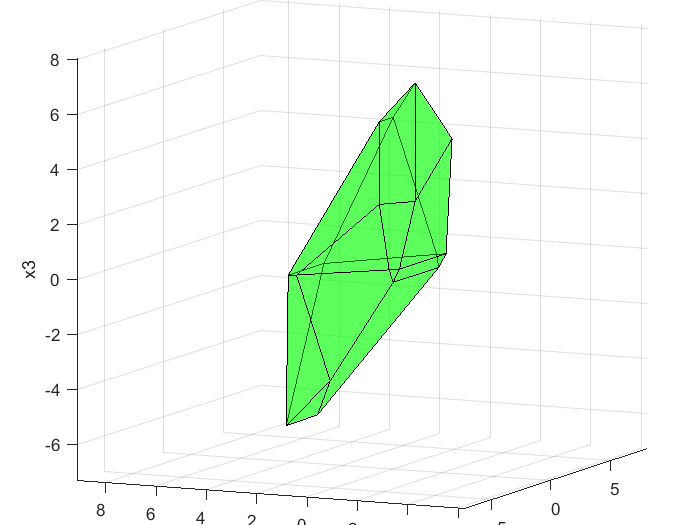
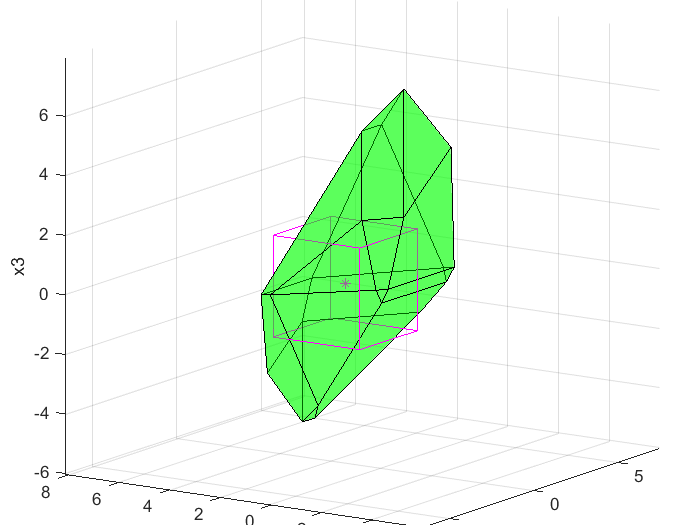
bounding boxes drawing

diff --git a/lab3/Untitled.m b/lab3/Untitled.m
@@ -1,8 +1,3 @@
-% infA = [98 99; 97 98; 96 97];
-% supA=[100 101; 99 100; 98 99];
-% infb=[1;2;3];
-% supb=[2;3;4];
-
 infA = [2 0; 4 6; 0 2];
 supA = [6 6; 8 8; 4 4];
 infb = [-1; 3; -2];
@@ -11,35 +6,43 @@ supb = [11; 17; 10];
 infA2 = [2 4 0; 0 6 2];
 supA2 = [6 8 4; 6 8 4];
 infb2 = [-7; -2];
-supb2 = [35; 22];
+supb2 = [25; 22];
 
 infA2_ = [4 0; 6 2];
 supA2_ = [8 4; 8 4];
 infb2_ = [-7; -2];
-supb2_ = [35; 22];
+supb2_ = [25; 22];
 
-% EqnTol2D(infA, supA, infb, supb)
-% infA = [98 99];
-% supA=[100 101];
-% infb=[1];
-% supb=[2];
+% EqnTolR2(infA, supA, infb, supb);
+% x = [0.338, 0.338, 0.748, 0.748, 0.338];
+% y = [0.281, 0.691, 0.691, 0.281, 0.281];
+% hold on
+% plot(0.54285, 0.48571, 'r.');
+% text(0.54285, 0.58571, 'argmaxTol');
+% plot(x, y, 'k');
+% hold off
 
-% % infA = [ 2 1 1; -1 15 3 ];
-% % infA2 = [ 2 -1 ;1 15; 1 3 ];
-% % supA = [ 4 5 4; 5 19 10];
-% % supA2 = [ 4 5; 5 19; 4 10];
-% % infb = [-2; 2];
-% % supb = [1; 7];
-% % 
-% % infb2 = [-4.5; -5.5; 0.5];
-% % supb2 = [-1.5; -0.5; 4.5];
-% % OrientPoints = 1;
-% % transparency = 1;
-% % 
+% figure()
+% 
 % EqnTolR3(infA2,supA2,infb2,supb2,0,1);
-% scatter3(-0.4, 0.3, 0, 'm*');
-figure()
-% plot3([-1.0637 0.0897], [-0.2567 -0.2567], [-0.5767 -0.5767], 'g');
+% x3 = [-1.707,1.707];
+% y3 = [-0.278,3.135];
+% z3 = [-1.708,1.708];
+% hold on
+% scatter3(1.02971857e-08,1.42857034,1.63777828e-06, 'm*');
+% for i = 1:2
+%     for j = 1:2
+%         for k = 1:2
+%             plot3([x3(1) x3(2)], [y3(j) y3(j)], [z3(k) z3(k)], 'm');
+%             plot3([x3(i) x3(i)], [y3(1) y3(2)], [z3(k) z3(k)], 'm');
+%             plot3([x3(i) x3(i)], [y3(j) y3(j)], [z3(1) z3(2)], 'm');
+%         end
+%     end
+% end
+% % plot3([x3(1), x3(2)], [y3(1), y3(1)], [z3(1), z3(1)], 'g');
+% % plot3([x3(i), x3(i)], [y3(j), y3(j)], [z3(k), z3(k)], 'g');
+% hold off
+% figure()
 % hold on
 % plot3([-1.0637 0.0897], [0.8967 0.8967], [-0.5767 -0.5767], 'g');
 % plot3([-1.0637 0.0897], [-0.2567 -0.2567], [0.5767 0.5767], 'g');
@@ -53,18 +56,16 @@ figure()
 % plot3([0.0897 0.0897], [-0.2567 -0.2567], [-0.5767 0.5767], 'm');
 % plot3([0.0897 0.0897], [0.8967 0.8967], [-0.5767 0.5767], 'm');
 % hold off
-% EqnTolR2(infA,supA,infb,supb)
-% hold on
-% plot(0.54285, 0.48571, 'r.')
-% text(0.54285, 0.58571, 'argmaxTol')
-% hold off
 x = [-0.278, -0.278, 3.135, 3.135, -0.278];
 y = [-1.708, 1.708, 1.708, -1.708, -1.708];
 EqnTolR2(infA2_, supA2_, infb2_, supb2_)
 hold on
 plot(1.42857034, 1.63777828e-06, 'r.')
 plot(x,y, 'k')
+% plot(1, 0.5, 'y*')
 text(1.42857034, 0.6, 'argmaxTol')
+xlabel('x2')
+ylabel('x3')
 hold off
 
 
